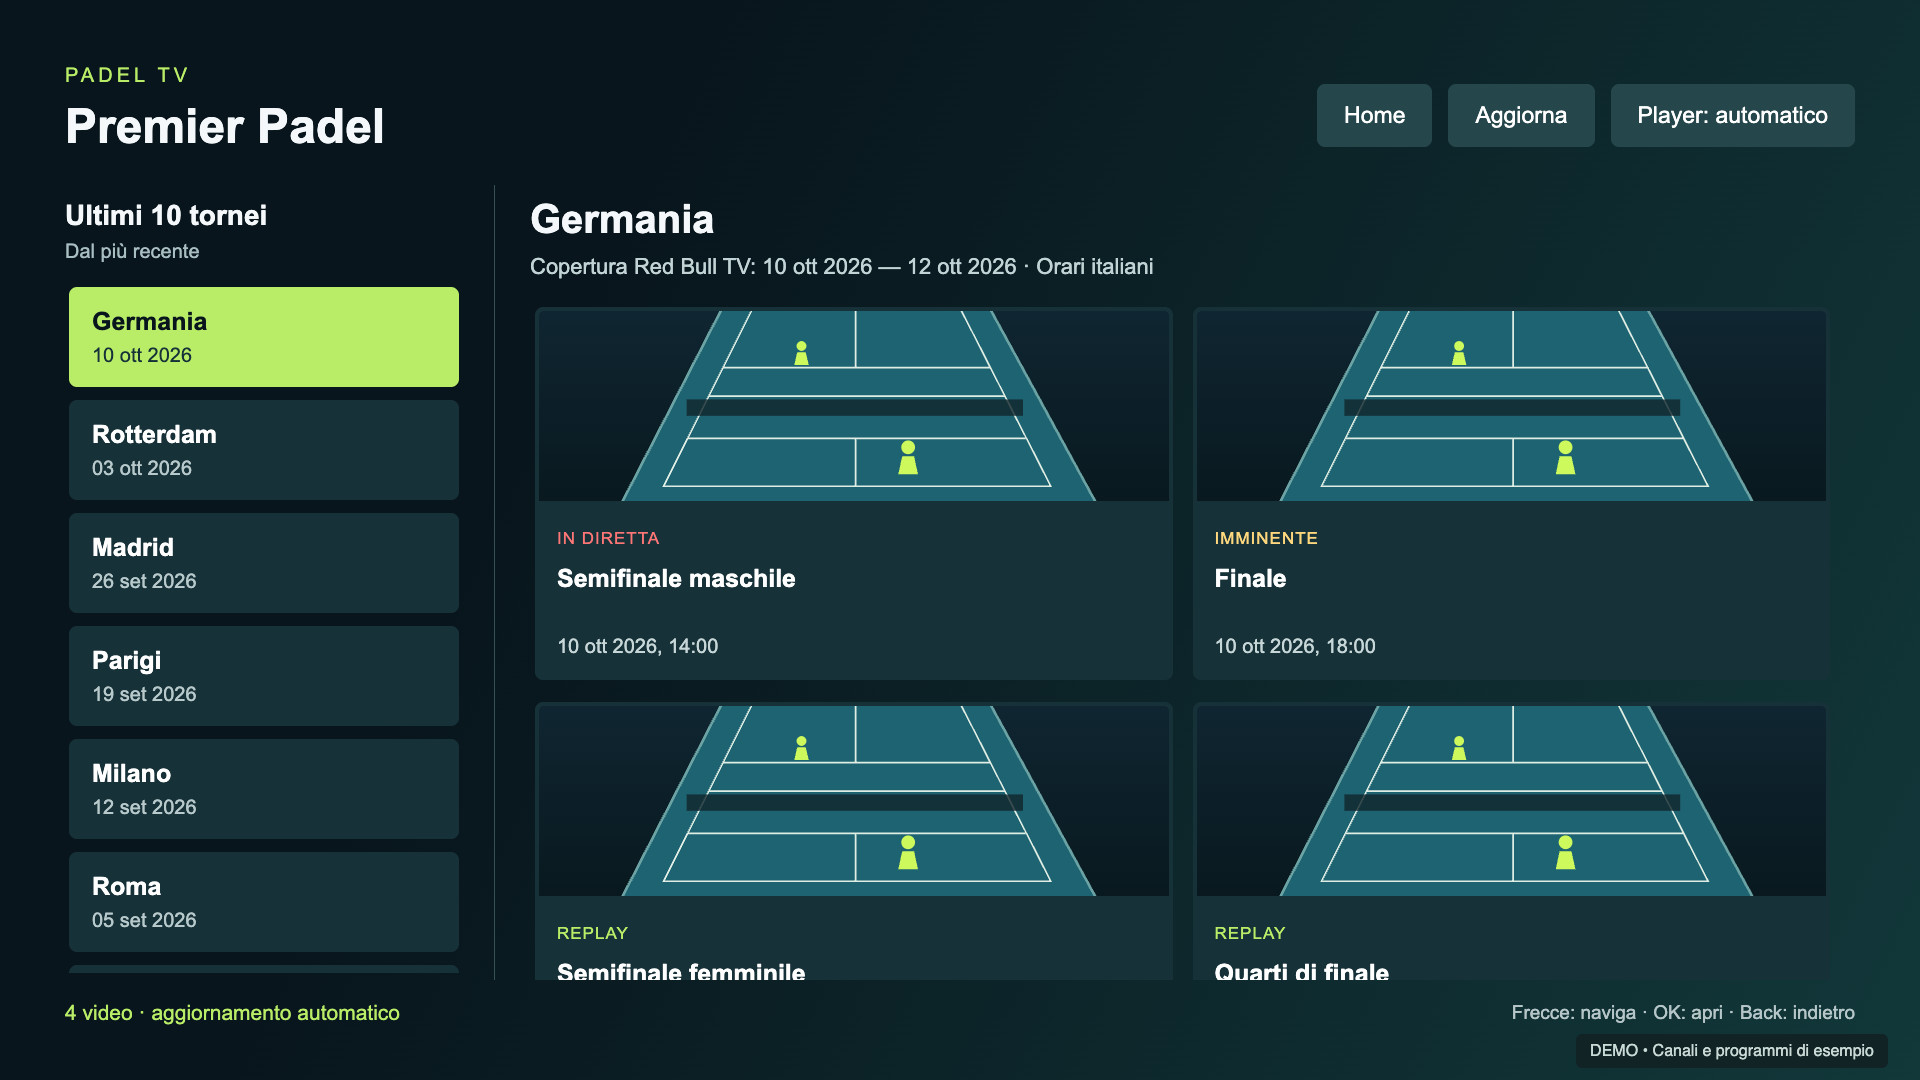
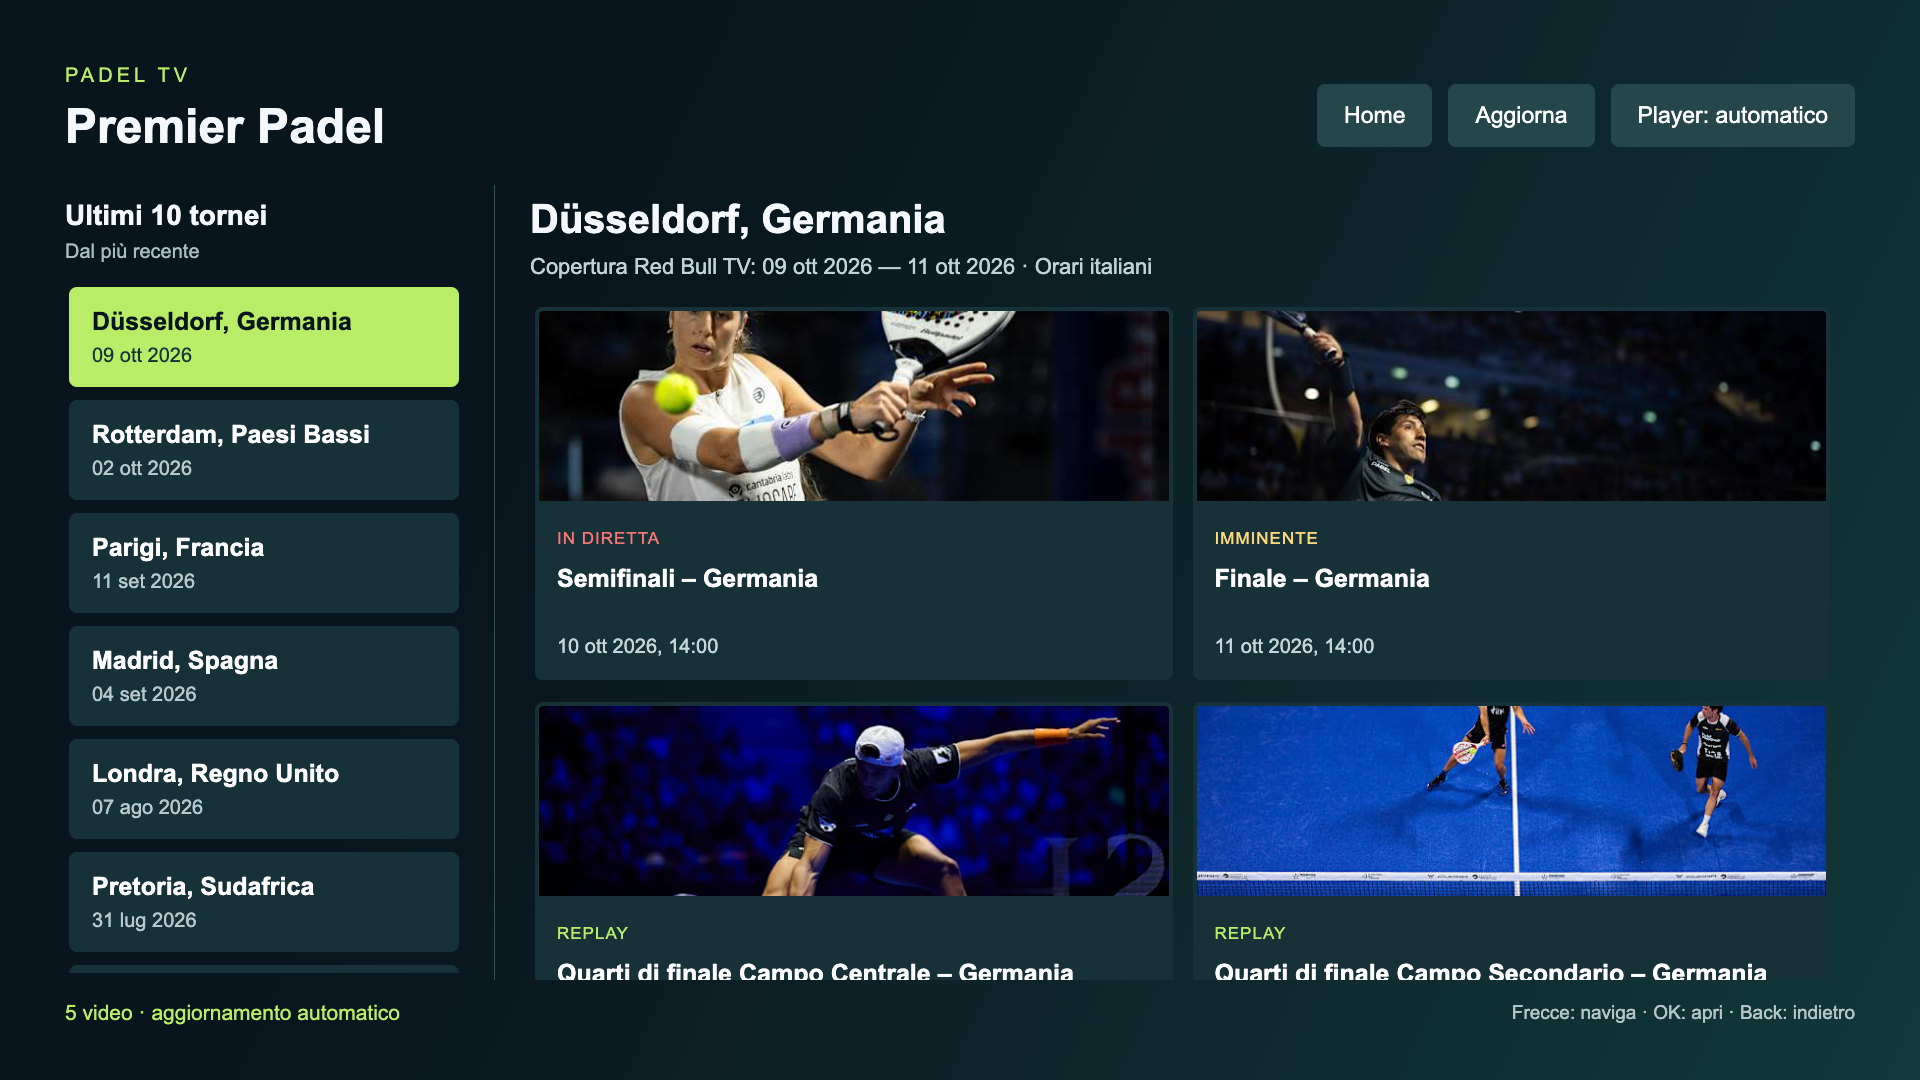
Show real Red Bull TV catalog in Padel screenshots

diff --git a/docs/index.html b/docs/index.html
@@ -3,7 +3,7 @@
 <main><section class="hero"><div class="intro"><p class="eyebrow">LG WEBOS / OPEN SOURCE / v0.6.0</p><h1>I tuoi canali.<br>Il tuo <em>padel.</em></h1><p class="lead">Dal programma di stasera alla prossima semifinale. IPTV e Padel TV, insieme sul grande schermo.</p><div class="actions"><a class="button primary" href="https://github.com/spacecdr/PadelIPTV/releases/download/v0.6.0/it.pepis.padel.tv_0.6.0_all.ipk">Scarica per webOS <span>↓</span></a><a class="button secondary" href="#installa">Come si installa ↗</a></div><p class="fine">Pacchetto .ipk · Developer Mode · Nessuna playlist inclusa</p></div><a class="hero-screen" href="assets/home.png"><img src="assets/home.png" width="1920" height="1080" alt="Home con IPTV a sinistra e Padel TV a destra"><span>Due sezioni. Un solo telecomando.</span></a></section>
 <div class="strip"><span>01 <b>I tuoi canali M3U</b></span><span>02 <b>Gli ultimi 10 tornei</b></span><span>03 <b>Il telefono fa da telecomando</b></span></div>
 <section id="funzioni"><div class="section-head"><p class="eyebrow">TUTTO A PORTATA DI FRECCIA</p><h2>Pensata per guardare.<br>E continuare a guardare.</h2></div><div class="features"><article><span class="number">01 / IPTV</span><h3>Il canale giusto,<br>senza cercarlo ogni volta.</h3><p>Bouquet, ricerca e preferiti. Metti in cima i gruppi che usi di più e riparti dall'ultimo canale.</p></article><article><span class="number">02 / IN RIPRODUZIONE</span><h3>La lista compare.<br>Il video continua.</h3><p>Premi su per sfogliare i canali in trasparenza. Sinistra e destra fanno zapping; Back chiude la lista.</p></article><article><span class="number">03 / GUIDA TV</span><h3>Adesso, dopo.<br>Tutto in un colpo d'occhio.</h3><p>Logo, programma attuale, prossimo appuntamento e avanzamento. Un pannello leggibile, poi di nuovo solo il video.</p></article></div></section>
-<section id="schermate" class="gallery"><div class="section-head"><p class="eyebrow">DENTRO L'APP</p><h2>Dal catalogo al campo.</h2><p>Interfaccia reale con dati dimostrativi. Canali e programmi sono esempi; il campo è un'illustrazione.</p></div><div class="shots"><figure><a href="assets/channels.png"><img loading="lazy" src="assets/channels.png" width="1920" height="1080" alt="Lista IPTV con canali campione del digitale terrestre"></a><figcaption><b>La tua TV, in ordine.</b> Canali, bouquet e preferiti.</figcaption></figure><figure><a href="assets/player.png"><img loading="lazy" src="assets/player.png" width="1920" height="1080" alt="Pannello trasparente con programma attuale, successivo e avanzamento"></a><figcaption><b>Sai sempre cosa stai guardando.</b> Guida XMLTV in background.</figcaption></figure><figure><a href="assets/overlay.png"><img loading="lazy" src="assets/overlay.png" width="1920" height="1080" alt="Lista canali sovrapposta alla riproduzione"></a><figcaption><b>Cambia idea, senza perdere il filo.</b> Lista sopra il video.</figcaption></figure><figure><a href="assets/padel.png"><img loading="lazy" src="assets/padel.png" width="1920" height="1080" alt="Catalogo padel con tornei e video dimostrativi"></a><figcaption><b>Solo padel.</b> Tornei recenti, replay, dirette e sessioni imminenti.</figcaption></figure></div></section>
+<section id="schermate" class="gallery"><div class="section-head"><p class="eyebrow">DENTRO L'APP</p><h2>Dal catalogo al campo.</h2><p>Padel TV mostra il catalogo reale Red Bull TV, acquisito il 10 ottobre 2026. Solo le schermate IPTV usano canali e programmi di esempio, con un campo illustrato.</p></div><div class="shots"><figure><a href="assets/channels.png"><img loading="lazy" src="assets/channels.png" width="1920" height="1080" alt="Lista IPTV con canali campione del digitale terrestre"></a><figcaption><b>La tua TV, in ordine.</b> Canali, bouquet e preferiti.</figcaption></figure><figure><a href="assets/player.png"><img loading="lazy" src="assets/player.png" width="1920" height="1080" alt="Pannello trasparente con programma attuale, successivo e avanzamento"></a><figcaption><b>Sai sempre cosa stai guardando.</b> Guida XMLTV in background.</figcaption></figure><figure><a href="assets/overlay.png"><img loading="lazy" src="assets/overlay.png" width="1920" height="1080" alt="Lista canali sovrapposta alla riproduzione"></a><figcaption><b>Cambia idea, senza perdere il filo.</b> Lista sopra il video.</figcaption></figure><figure><a href="assets/padel.png"><img loading="lazy" src="assets/padel.png" width="1920" height="1080" alt="Catalogo reale Red Bull TV con tornei, miniature e sessioni disponibili"></a><figcaption><b>Solo padel.</b> Tornei recenti, replay, dirette e sessioni imminenti.</figcaption></figure><figure><a href="assets/padel-replay.png"><img loading="lazy" src="assets/padel-replay.png" width="1920" height="1080" alt="Replay reali del torneo precedente nel catalogo Padel TV"></a><figcaption><b>Rivivi il torneo.</b> I replay disponibili nel catalogo Red Bull TV.</figcaption></figure></div></section>
 <section class="remote"><div><p class="eyebrow">IL TELECOMANDO È GIÀ IN TASCA</p><h2>Apri il browser.<br>Sei al comando.</h2><p class="lead">Inserisci la playlist dal telefono. Naviga dal computer con frecce, Invio e Indietro. La TV ospita il server: dopo l'installazione, il computer può restare spento.</p><ul><li>Abbinamento iniziale e dispositivi ricordati</li><li>Ripetizione dei cursori nelle liste</li><li>Caricamento e aggiornamento M3U</li><li>Stato e diagnostica della guida EPG</li></ul><p class="fine">Telefono e TV devono essere sulla stessa rete. L'app deve restare aperta.</p></div><a class="phone" href="assets/remote.png"><img loading="lazy" src="assets/remote.png" alt="Telecomando web con frecce, lingua audio e gestione playlist"></a></section>
 <section class="specs"><div><p class="eyebrow">SOTTO IL COFANO</p><h2>Leggera.<br>Anche su webOS 4.</h2><p>Verificata su LG serie UM7390PLC con webOS 4.10.2-29. Altri modelli non sono ancora verificati.</p></div><dl><div><dt>Interfaccia</dt><dd>Full HD · 1920 × 1080</dd></div><div><dt>Video</dt><dd>Player nativo + fallback HLS.js</dd></div><div><dt>Playlist</dt><dd>M3U HTTP/HTTPS · fino a 20.000 canali</dd></div><div><dt>Guida TV</dt><dd>XMLTV/gzip · cache locale · ora e dopo</dd></div><div><dt>Telecomando</dt><dd>Server locale sulla TV · porta 8768</dd></div><div><dt>Distribuzione</dt><dd>App e servizio in un solo .ipk</dd></div></dl></section>
 <section id="installa" class="install"><p class="eyebrow">PRONTI A COMINCIARE?</p><h2>Dal download alla tua TV.</h2><ol><li><b>Prepara la TV.</b><span>Installa Developer Mode, accedi con l'account LG Developer e configura la connessione al computer.</span></li><li><b>Installa il pacchetto.</b><span>Scarica la release e usa la CLI webOS per installare e avviare l'IPK.</span></li><li><b>Scegli cosa guardare.</b><span>Apri Padel TV oppure abbina il browser da “Telecomando e playlist” e inserisci la tua M3U.</span></li></ol><div class="actions"><a class="button primary" href="https://github.com/spacecdr/PadelIPTV/releases/latest">Release e download ↓</a><a class="button secondary" href="https://github.com/spacecdr/PadelIPTV#installazione">Istruzioni complete ↗</a></div></section>

diff --git a/DEVELOPMENT.md b/DEVELOPMENT.md
@@ -13,7 +13,7 @@ npm run build
 
 Il risultato è `dist/it.pepis.padel.tv_0.6.0_all.ipk`. Il comando sottostante è `ares-package app service --outdir dist`: includere sempre entrambe le directory. Node/npm non sono necessari sulla TV per installare l'IPK.
 
-Per verificare l'interfaccia IPTV con dati sintetici, in un terminale eseguire `python3 -m http.server 8769 --bind 127.0.0.1 --directory app`, poi `node tests/iptv-browser.cjs`. Per una porta diversa impostare `APP_URL=http://127.0.0.1:PORTA`. Il test non contatta una TV. I test unitari coprono parser M3U, persistenza, gruppi/preferiti/zapping, matcher XMLTV, gzip, fallback/cache e sicurezza del telecomando. `npm run screenshots` avvia un proprio server temporaneo e genera le immagini demo in `docs/assets`; usa solo fixture.
+Per verificare l'interfaccia IPTV con dati sintetici, in un terminale eseguire `python3 -m http.server 8769 --bind 127.0.0.1 --directory app`, poi `node tests/iptv-browser.cjs`. Per una porta diversa impostare `APP_URL=http://127.0.0.1:PORTA`. Il test non contatta una TV. I test unitari coprono parser M3U, persistenza, gruppi/preferiti/zapping, matcher XMLTV, gzip, fallback/cache e sicurezza del telecomando. `npm run screenshots` avvia un proprio server temporaneo e genera le cinque immagini demo Home/IPTV/telecomando in `docs/assets`; usa solo fixture. `npm run screenshots:padel` acquisisce invece il catalogo pubblico reale Red Bull TV (torneo corrente e precedente), senza collegarsi alla TV o caricare una playlist. Richiede Internet e riflette i contenuti disponibili al momento.
 
 ## Struttura
 

diff --git a/THIRD_PARTY.md b/THIRD_PARTY.md
@@ -6,4 +6,4 @@
 - **Certificati CA Mozilla distribuiti con Node.js**: bundle di certificati pubblici, provenienza e rigenerazione in `service/ca-roots-NOTICE.txt`. Nessuna chiave privata inclusa.
 - **Playwright Core**: Apache-2.0; dipendenza di sviluppo, non distribuita nell'IPK.
 
-Il progetto usa le API Red Bull TV e scarica guide XMLTV dai fornitori indicati nel README. Video, guide e loghi delle emittenti non diventano parte del codice con licenza GPL e mantengono i rispettivi diritti. I nomi di canali/tornei nelle demo sono descrittivi; i programmi sono inventati. Le immagini dimostrative del campo e le tessere dei canali sono generate dal progetto e non contengono fotogrammi televisivi o loghi ufficiali.
+Il progetto usa le API Red Bull TV e scarica guide XMLTV dai fornitori indicati nel README. Video, guide e loghi delle emittenti non diventano parte del codice con licenza GPL e mantengono i rispettivi diritti. I nomi dei canali nelle demo IPTV sono descrittivi; i relativi programmi sono inventati. Le schermate Padel TV mostrano invece il catalogo reale Red Bull TV: miniature, titoli e marchi restano dei rispettivi titolari e non sono concessi sotto la licenza GPL del progetto. Le immagini dimostrative del campo e le tessere dei canali sono generate dal progetto e non contengono fotogrammi televisivi o loghi ufficiali.

diff --git a/README.md b/README.md
@@ -19,13 +19,15 @@ App indipendente per LG webOS: player IPTV per le proprie playlist M3U e catalog
 
 ## Schermate
 
-Le immagini mostrano l'app reale nel browser con **dati dimostrativi**. Nomi di canali del digitale terrestre, programmi e calendario sono esempi; il fotogramma sportivo è un'illustrazione, non una trasmissione. Nessuna playlist personale è inclusa.
+Le schermate **Padel TV** mostrano il catalogo reale Red Bull TV nell’app, acquisito il 10 ottobre 2026, con titoli, miniature e stati disponibili in quel momento. Le schermate **IPTV** usano canali e programmi dimostrativi; il campo nel player IPTV è un’illustrazione. Nessuna playlist personale è inclusa.
 
 | Canali e bouquet | Guida durante la visione |
 |---|---|
 | ![Lista canali](docs/assets/channels.png) | ![Guida TV](docs/assets/player.png) |
 | Lista sovrapposta al video | Tornei e replay |
 | ![Overlay](docs/assets/overlay.png) | ![Padel](docs/assets/padel.png) |
+
+![Replay del torneo precedente nel catalogo reale](docs/assets/padel-replay.png)
 
 [Telecomando web su smartphone](docs/assets/remote.png)
 

diff --git a/HANDOFF.md b/HANDOFF.md
@@ -4,3 +4,5 @@ Prima pubblicazione pubblica: versione 0.6.0, 10 ottobre 2026.
 Questa copia è separata dall'ambiente personale del dispositivo. Non importare log o dati runtime.
 Le funzioni dell'app corrispondono alla versione verificata su LG UM7390PLC; test e strumenti pubblici sono portabili e usano dati sintetici.
 Vedere DEVELOPMENT.md per compatibilità legacy, EPG, build e pubblicazione; README.md per installazione e limiti.
+
+Aggiornamento immagini: su richiesta dell’utente, Padel TV usa screenshot del catalogo pubblico reale Red Bull TV; solo IPTV usa fixture. `screenshots:padel` aggiorna torneo corrente e precedente senza accedere alla TV. Non sostituire queste immagini con un calendario sintetico.

diff --git a/AGENTS.md b/AGENTS.md
@@ -3,4 +3,4 @@
 Leggere README.md, DEVELOPMENT.md e HANDOFF.md prima di modificare il progetto.
 Mantenere ES5/Chromium 53 nell'app e compatibilità Node 0.12.2 nel servizio.
 Non pubblicare playlist reali, URL privati, cache EPG, PIN/token o configurazioni della TV.
-Usare fixture sintetiche per test e screenshot. Il pacchetto deve includere app e service.
+Usare fixture sintetiche per test e screenshot IPTV. Per Padel TV usare il catalogo pubblico reale, come richiesto dall’utente; non acquisire playlist o pannelli di abbinamento. Il pacchetto deve includere app e service.
